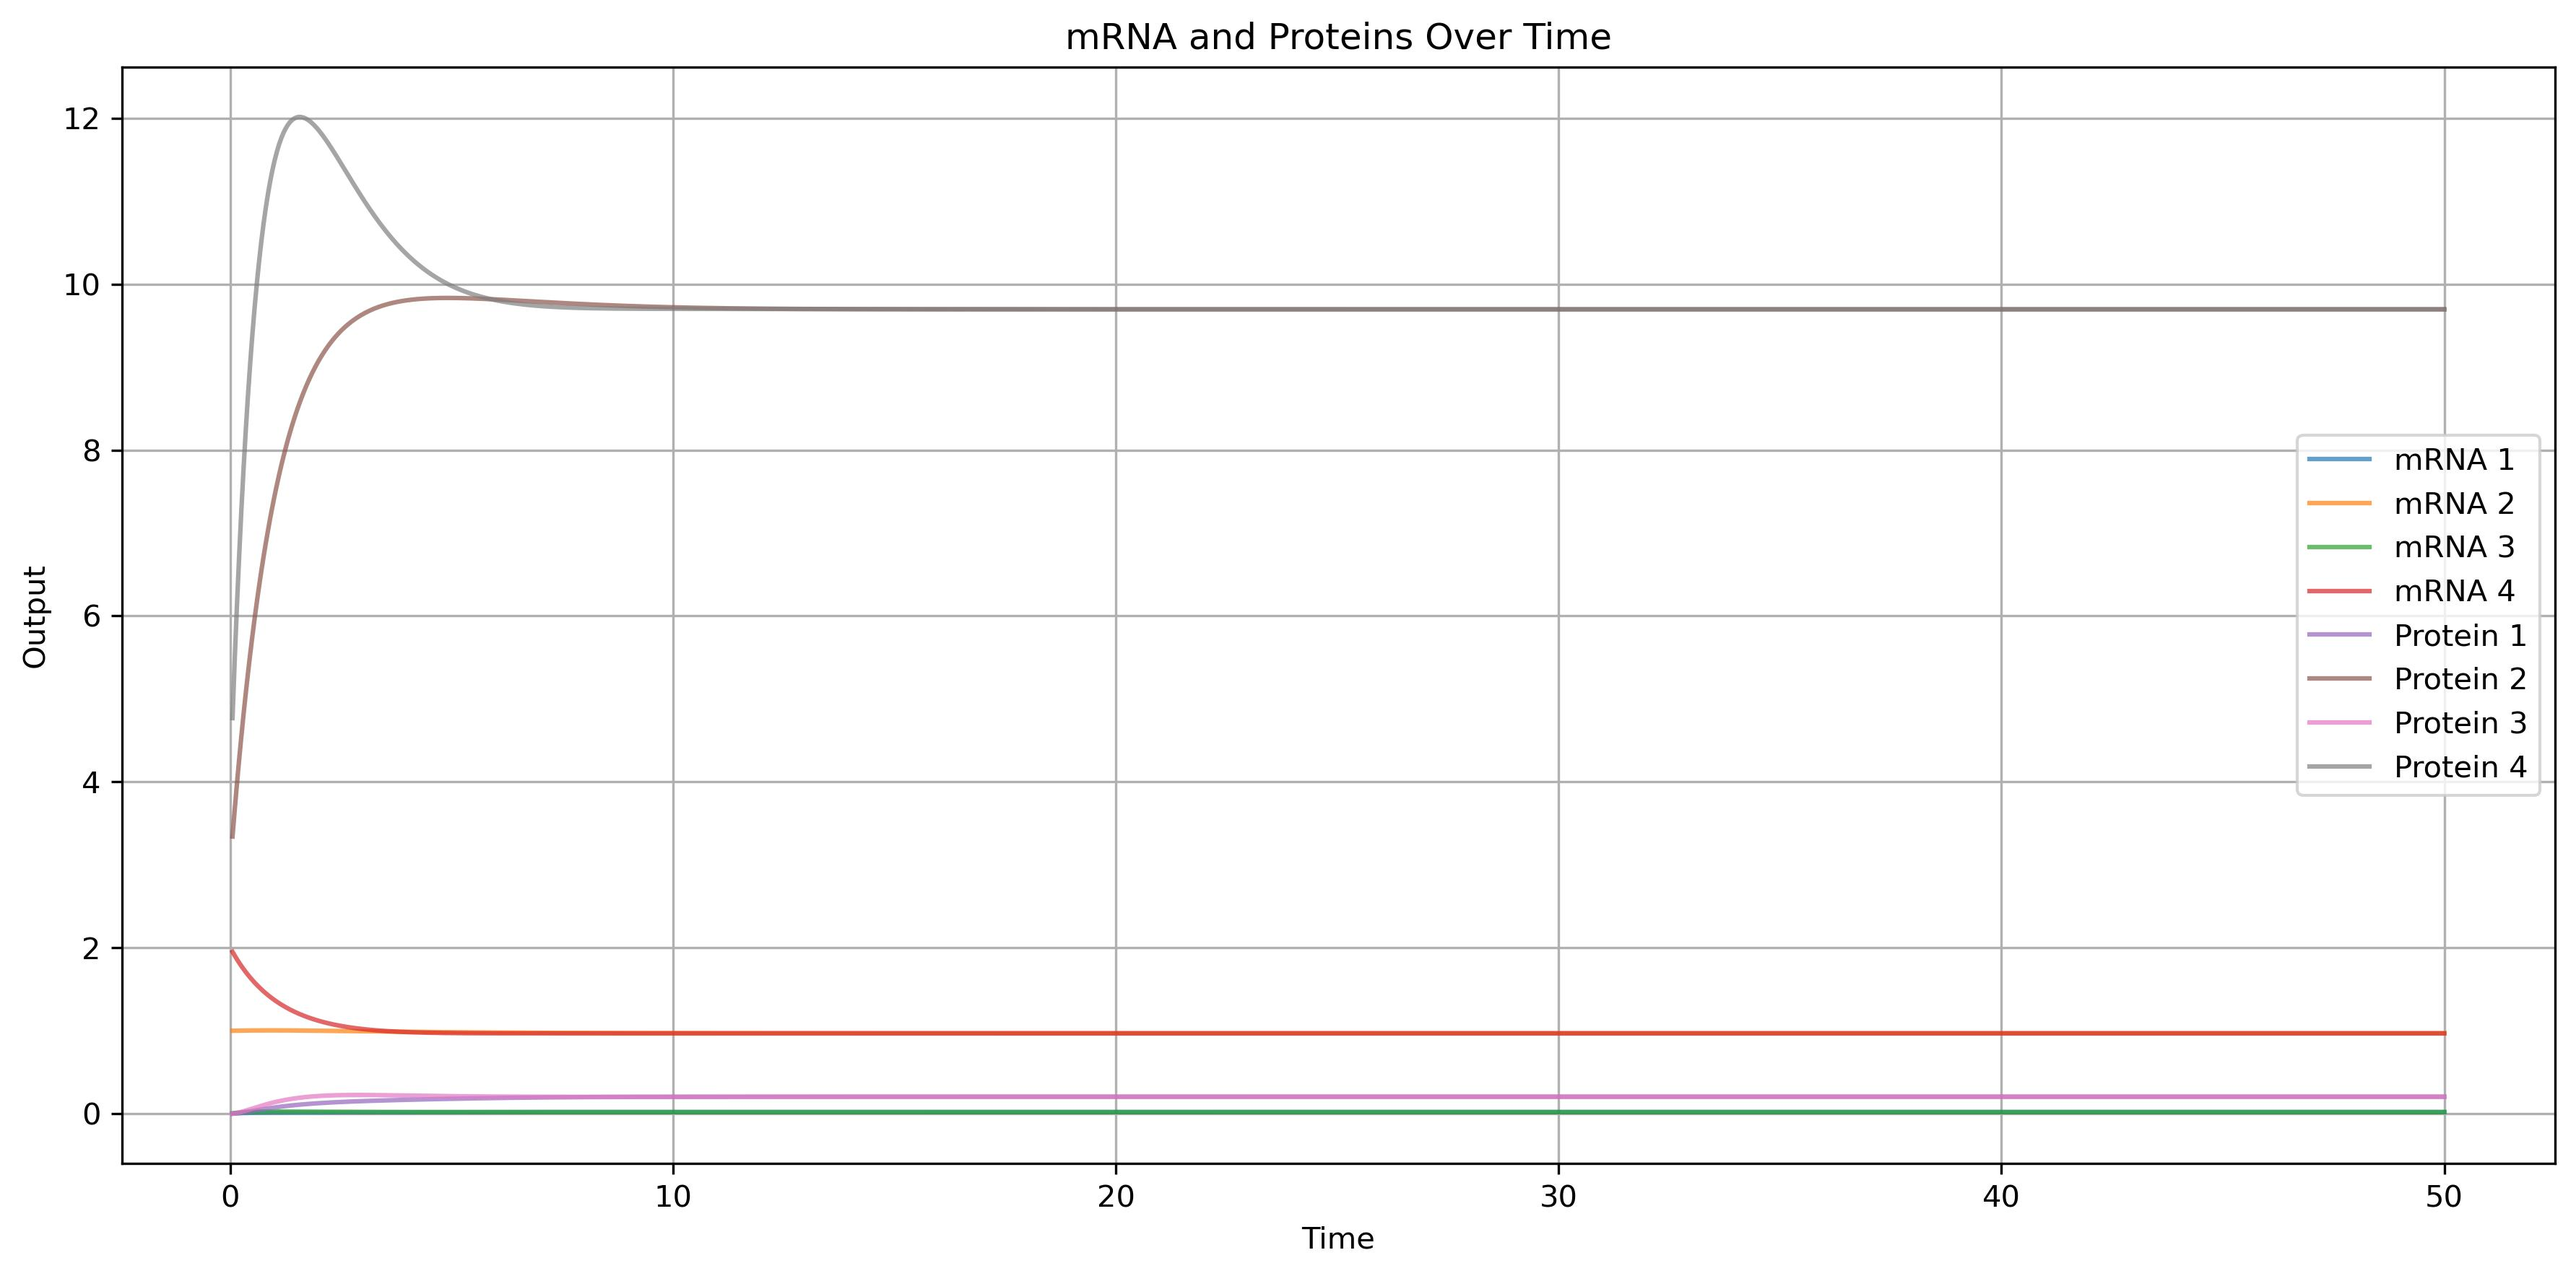
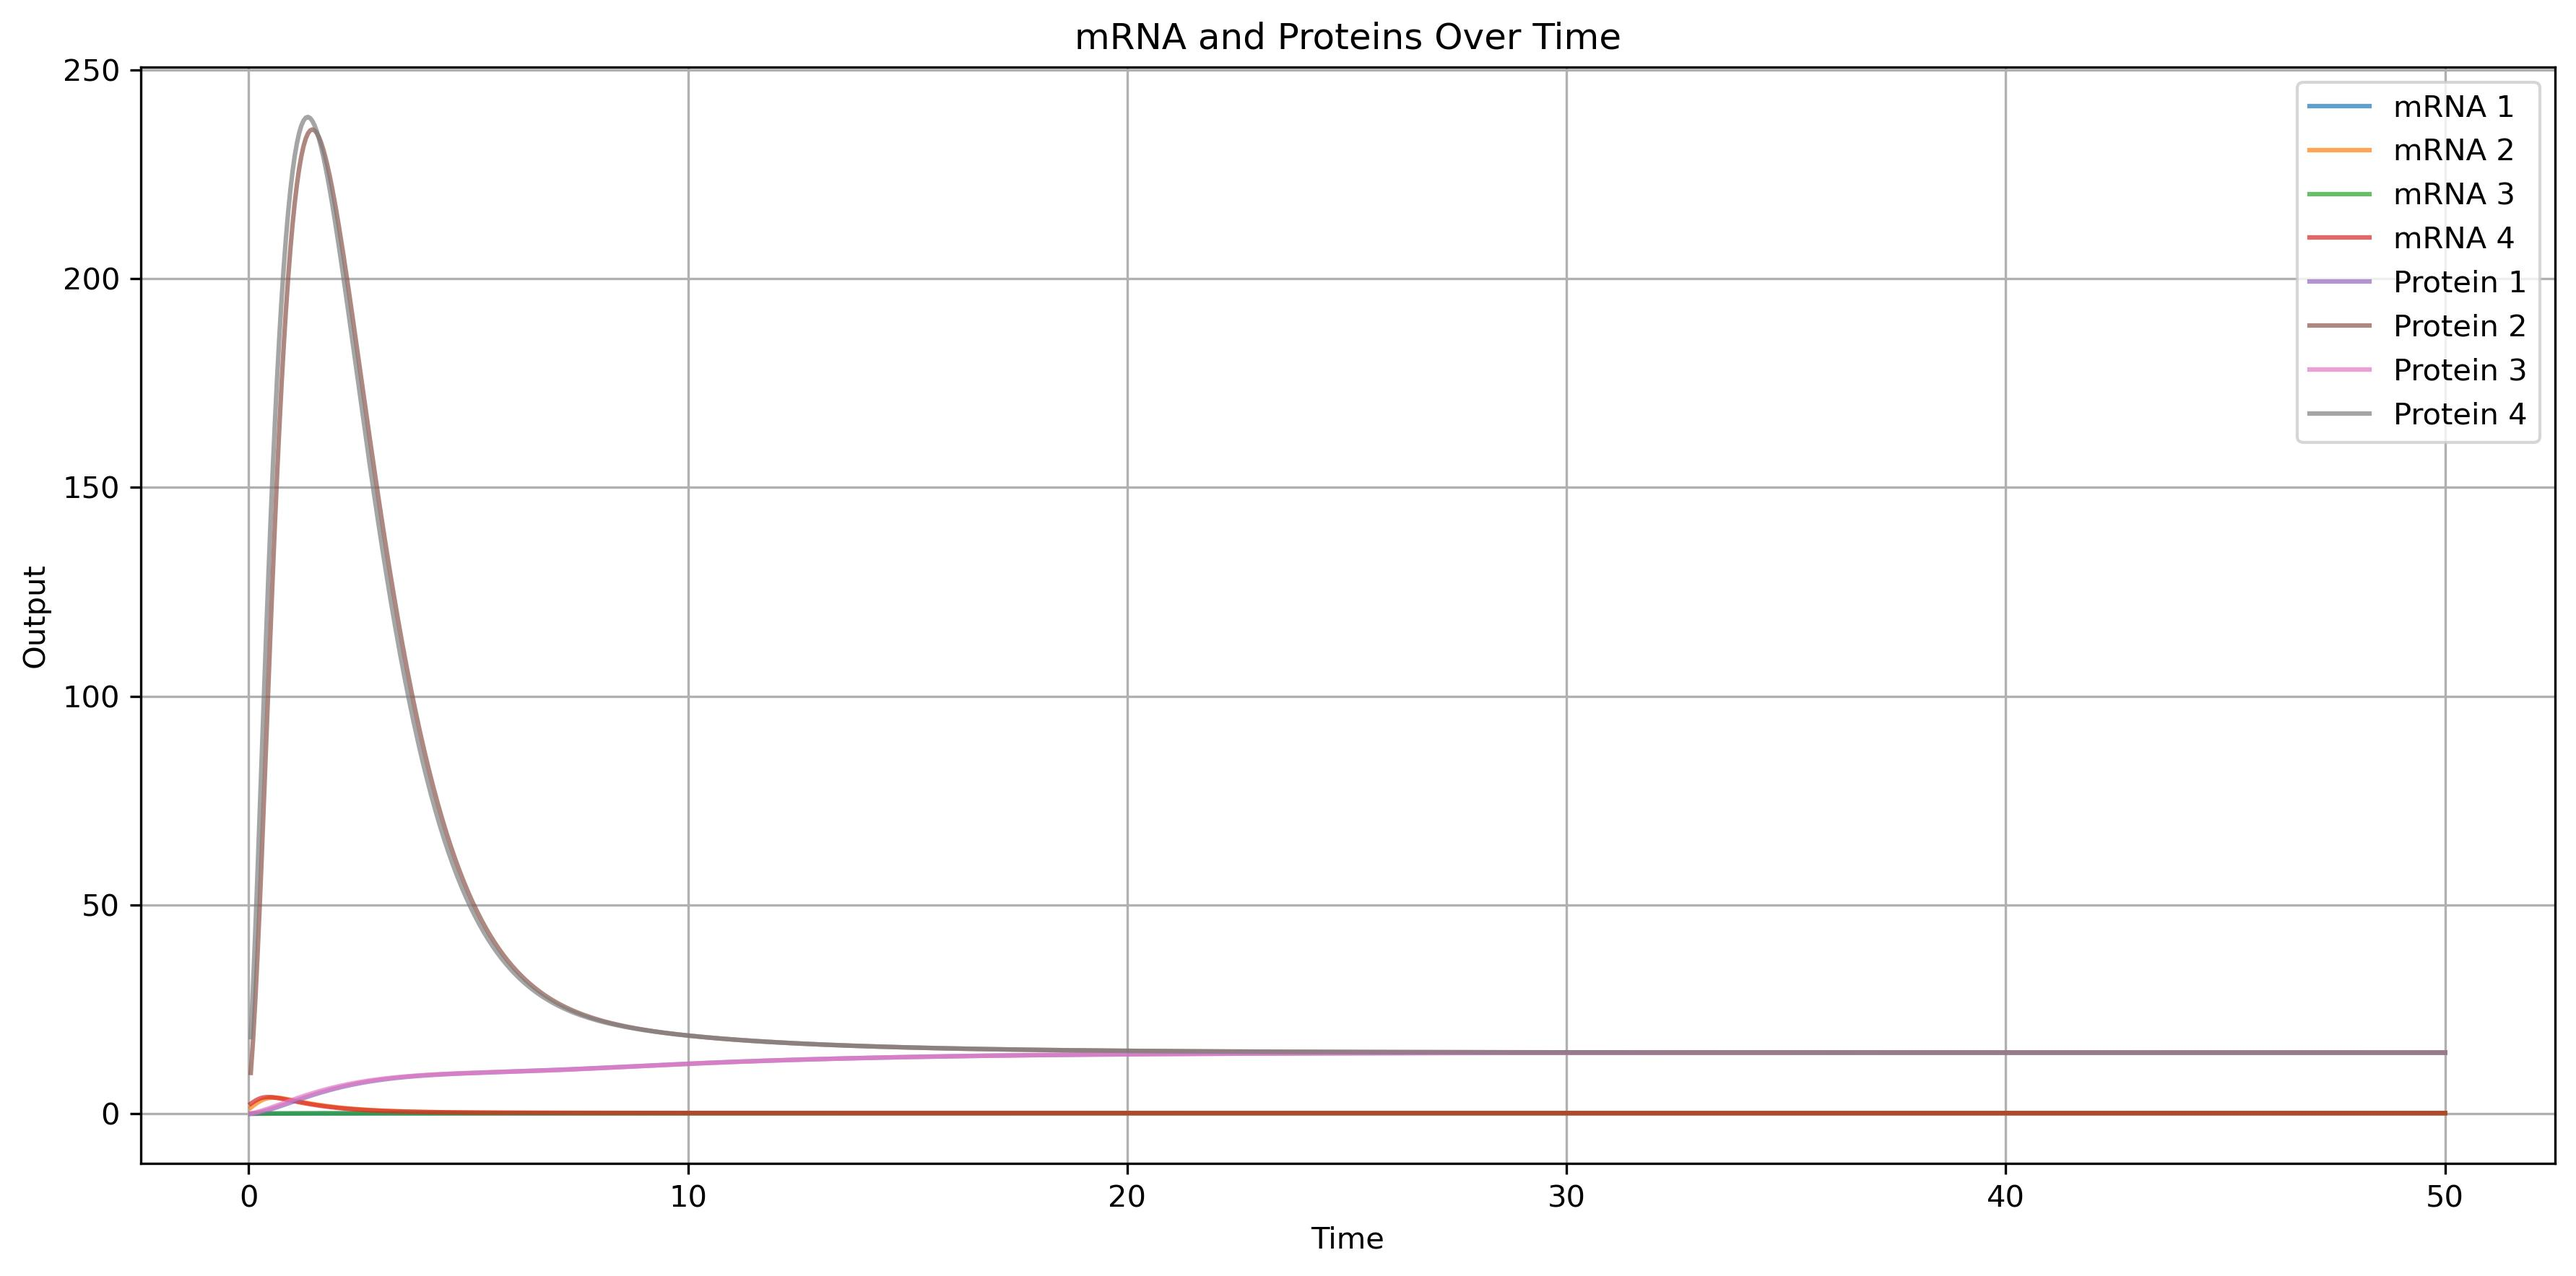
Adding Monte-Carlo sampling of uncertain parameters

diff --git a/testing_represillator_stochastic.py b/testing_represillator_stochastic.py
@@ -1,41 +1,43 @@
 import ctypes
 import numpy as np
-import matplotlib.pyplot as plt
-import numpy as np
 
 # Load the C library
-c_lib = ctypes.CDLL('./libRepressilator_ring.so')
+c_lib = ctypes.CDLL('./libstochasticRepressilator.so')
 num_points = 1000
-cyc=4
 # Define the function signature in Python
 c_lib.simulate_repressilator.argtypes = [np.ctypeslib.ndpointer(dtype=np.float64, ndim=1, flags="C_CONTIGUOUS"),  # params_array
                                          np.ctypeslib.ndpointer(dtype=np.float64, ndim=1, flags="C_CONTIGUOUS"),  # initial_conditions
                                          np.ctypeslib.ndpointer(dtype=np.float64, ndim=1, flags="C_CONTIGUOUS"),  # time_span
-                                         ctypes.c_double,
-                                         ctypes.c_int]  # num_points
-c_lib.simulate_repressilator.restype = ctypes.POINTER(ctypes.c_double * (2*cyc+1) * num_points)
+                                         ctypes.c_double]  # num_points
+c_lib.simulate_repressilator.restype = ctypes.POINTER(ctypes.c_double * 7 * num_points)
 
 # Prepare data for the C function
-params_array = np.array([1, 1, 10, 0.1, 100, 2, cyc], dtype=np.float64)  # deg_m, deg_p,alpha, alpha_0, beta, n
-initial_conditions = np.array([0.0, 1.0, 0.0, 2.0, 0.0, 4.0, 0.0,8.0], dtype=np.float64)  # m1, m2, m3, p1, p2, p3 ,
+params_array = np.array([1, 1, 1, 0.01, 10, 2], dtype=np.float64)  # deg_m, deg_p,alpha, alpha_0, beta, n
+initial_conditions = np.array([0.0, 1.0, 0.0, 2.0, 0.0, 3.0], dtype=np.float64)  # m1, m2, m3, p1, p2, p3
 time_span = np.array([0, 50], dtype=np.float64)  # Start time, end time
 
 # Call the C function
-result_ptr = c_lib.simulate_repressilator(params_array, initial_conditions, time_span, num_points,cyc)
+result_ptr = c_lib.simulate_repressilator(params_array, initial_conditions, time_span, num_points)
 
 # Convert the results from C to a Python format
 results = np.ctypeslib.as_array(result_ptr.contents)
 
+# Process the results as needed
+# ...
+import matplotlib.pyplot as plt
+import numpy as np
 
 # Assuming the number of time steps equals the number of rows in the data
 #time_steps = np.linspace(np.min(time_span),np.max(time_span), num=num_points)
 
 # Plotting
 plt.figure(figsize=(12, 6))
-for z1 in range(1,cyc+1):
-    plt.plot(results[:,0], results[:, z1], label="mRNA "+str(z1), alpha=0.7)
-for z2 in range(cyc+1,2*cyc+1):
-    plt.plot(results[:,0], results[:, z2], label="Protein "+str(z2-cyc), alpha=0.7)
+plt.plot(results[:,0], results[:, 1], label="mRNA 1", alpha=0.7)
+plt.plot(results[:,0], results[:, 2], label="mRNA 2", alpha=0.7)
+plt.plot(results[:,0], results[:, 3], label="mRNA 3", alpha=0.7)
+plt.plot(results[:,0], results[:, 4], label="Protein 1", alpha=0.7)
+plt.plot(results[:,0], results[:, 5], label="Protein 2", alpha=0.7)
+plt.plot(results[:,0], results[:, 6], label="Protein 3", alpha=0.7)
 
 plt.xlabel("Time")
 plt.ylabel("Output")
@@ -44,8 +46,8 @@ plt.legend()
 plt.grid(True)
 plt.tight_layout()
 #plt.show()
-plt.savefig("repressilator_variables_ring.jpg", bbox_inches="tight", dpi=300)
-plt.savefig("repressilator_variables_ring.png", bbox_inches="tight", dpi=300, transparent=True)
+plt.savefig("repressilator_variables_stochastic.jpg", bbox_inches="tight", dpi=300)
+plt.savefig("repressilator_variables_stochastic.png", bbox_inches="tight", dpi=300, transparent=True)
 
 # Don't forget to free the allocated memory in C
 c_lib.free(result_ptr)  # Assuming you have a 'free' function in your C library to free the memory

diff --git a/monte_carlo_rep_model.py b/monte_carlo_rep_model.py
@@ -1,0 +1,73 @@
+import numpy as np
+from scipy.integrate import odeint
+import matplotlib.pyplot as plt
+import pymc as pm
+import pytensor.tensor as tt
+from pytensor.compile.ops import as_op
+
+# Parameters
+n = 2       # Hill coefficient
+total_time = 15  # total time for simulation
+alpha0 = 0.01
+degp = 0.1
+
+# Initial conditions
+M1_0, P1_0, M2_0, P2_0, M3_0, P3_0 = 0, 1, 0, 2, 0, 3
+y0 = [M1_0, P1_0, M2_0, P2_0, M3_0, P3_0]
+
+# Time points
+t = np.linspace(0, total_time, 1000)
+
+# Differential equations for the repressilator system
+def repressilator(y, t, alpha, beta, n):
+    M1, P1, M2, P2, M3, P3 = y
+    dM1_dt = -M1 + alpha / (1 + P3**n) + alpha0
+    dP1_dt = -beta * (degp * P1 - M1)
+    dM2_dt = -M2 + alpha / (1 + P1**n) + alpha0
+    dP2_dt = -beta * (degp * P2 - M2)
+    dM3_dt = -M3 + alpha / (1 + P2**n) + alpha0
+    dP3_dt = -beta * (degp * P3 - M3)
+    return [dM1_dt, dP1_dt, dM2_dt, dP2_dt, dM3_dt, dP3_dt]
+
+# Define Theano operation for solving the ODE
+@as_op(itypes=[tt.dscalar, tt.dscalar], otypes=[tt.dmatrix])
+def th_forward_model(alpha, beta):
+    solution = odeint(repressilator, y0, t, args=(alpha, beta, n))
+    return np.array(solution)
+
+# PyMC3 model
+n_samples = 100  # Reduced number of samples for faster execution
+with pm.Model() as model:
+    # Stochastic variables for alpha and beta
+    alpha = pm.Normal('alpha', mu=1, sigma=0.1)
+    beta = pm.Normal('beta', mu=10, sigma=1)
+
+    # Forward model
+    solution = th_forward_model(alpha, beta)
+
+    # Monte Carlo sampling
+    trace = pm.sample(n_samples, tune=50, return_inferencedata=False)
+
+# Extract sampled parameter values
+alpha_samples = trace['alpha']
+beta_samples = trace['beta']
+
+# Solve ODE for sampled parameters and plot
+plt.figure(figsize=(10, 6))
+for i in range(len(alpha_samples)):
+    sol = odeint(repressilator, y0, t, args=(alpha_samples[i], beta_samples[i], n))
+    plt.plot(t, sol[:, 1], 'b', alpha=0.1)  # Plotting P1 for each sample
+
+plt.xlabel('Time')
+plt.ylabel('P1 concentration')
+plt.title('Uncertainty in P1 Trajectories')
+plt.show()
+
+# Solve ODE for sampled parameters and plot
+plt.figure(figsize=(10, 6))
+plt.scatter(alpha_samples,beta_samples, c="black",alpha=0.5)  # Plotting P1 for each sample
+
+plt.xlabel('alpha')
+plt.ylabel('beta')
+plt.title('MC samples')
+plt.show()

diff --git a/stochastic_repressilator.c b/stochastic_repressilator.c
@@ -1,0 +1,66 @@
+#include <stdio.h>
+#include <stdlib.h>
+#include <math.h>
+
+typedef struct {
+    double deg_m, deg_p, alpha, alpha_0, beta, n;
+} repressilator_params;
+
+int repressilator_func(double t, const double y[], double f[], void *params) {
+    (void)(t);
+    repressilator_params *p = (repressilator_params *)params;
+    double deg_m = p->deg_m;
+    double deg_p = p->deg_p;
+    double alpha = p->alpha;
+    double alpha_0 = p->alpha_0;
+    double beta = p->beta;
+    double n = p->n;
+
+    f[0] = -deg_m * y[0] + alpha / (1 + pow(y[5], n)) + alpha_0; 
+    f[1] = -deg_m * y[1] + alpha / (1 + pow(y[3], n)) + alpha_0; 
+    f[2] = -deg_m * y[2] + alpha / (1 + pow(y[4], n)) + alpha_0; 
+
+    f[3] = -deg_p * y[3] + beta * y[0]; 
+    f[4] = -deg_p * y[4] + beta * y[1];
+    f[5] = -deg_p * y[5] + beta * y[2];
+
+    return 0;
+}
+
+void euler_maruyama(repressilator_params *params, double y[], double dt, double noise_strength) {
+    double f[6];
+    repressilator_func(0, y, f, params);
+
+    for (int i = 0; i < 6; i++) {
+        double noise = noise_strength * sqrt(dt) * ((double) rand() / RAND_MAX - 0.5);
+        y[i] += f[i] * dt + noise;
+    }
+}
+
+double* simulate_repressilator(repressilator_params *params, double *initial_conditions, double *time_span, int num_points) {
+    double dt = (time_span[1] - time_span[0]) / num_points;
+    double noise_strength = 0.1; // Adjust this value as needed for your simulation
+
+    double* results = malloc(num_points * 7 * sizeof(double));
+    if (!results) {
+        fprintf(stderr, "Failed to allocate memory for results\n");
+        return NULL;
+    }
+
+    double y[6];
+    for (int i = 0; i < 6; i++) {
+        y[i] = initial_conditions[i];
+    }
+
+    for (int i = 0; i < num_points; i++) {
+        double t = time_span[0] + i * dt;
+        euler_maruyama(params, y, dt, noise_strength);
+
+        results[i * 7 + 0] = t;
+        for (int j = 0; j < 6; j++) {
+            results[i * 7 + 1 + j] = y[j];
+        }
+    }
+
+    return results;
+}
